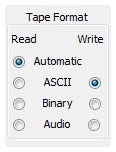
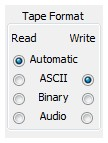
Improve tape file selection for Mac

diff --git a/docs/quickstart.html b/docs/quickstart.html
@@ -50,9 +50,9 @@ launch the application.</p>
 windows something like this:</p>
 <table frame="void" rules="none">
 <tr>
-<td align="left" valign="middle" width="100">Top left is video display</td>
+<td align="left" valign="middle" width="110">Top left is video display</td>
 <td rowspan="3"><img src="image/qs1.jpg" alt="Main Frame"/></td>
-<td align="right" valign="middle" width="100">Top right is the machine control
+<td align="right" valign="middle" width="110">Top right is the machine control
 and configuration panel</td>
 </tr>
 <tr><td>&nbsp;</td></tr>

diff --git a/src/uk101/view/component/TapeFormat.java b/src/uk101/view/component/TapeFormat.java
@@ -14,7 +14,6 @@ import javax.swing.ButtonGroup;
 import javax.swing.JLabel;
 import javax.swing.JPanel;
 import javax.swing.JRadioButton;
-import javax.swing.border.TitledBorder;
 
 import uk101.io.Tape;
 
@@ -34,8 +33,11 @@ public class TapeFormat extends JPanel {
     private ButtonGroup inputGroup, outputGroup;
 
     public TapeFormat() {
-        setLayout(new BoxLayout(this, BoxLayout.Y_AXIS));
-
+        JPanel buttons = new JPanel();
+        buttons.setLayout(new BoxLayout(buttons, BoxLayout.Y_AXIS));
+        buttons.setBorder(BorderFactory.createTitledBorder("Tape Format"));
+        add(buttons);
+        
         iAuto = new JRadioButton((String)null, true);
         JRadioButton ia = new JRadioButton();
         JRadioButton ib = new JRadioButton();
@@ -55,39 +57,31 @@ public class TapeFormat extends JPanel {
         ow.setActionCommand(Integer.toString(Tape.STREAM_AUDIO));
         outputGroup = new ButtonGroup();
         outputGroup.add(oAscii);  outputGroup.add(ob);  outputGroup.add(ow);
-
-        JPanel buttons = new JPanel();
-        buttons.setLayout(new BoxLayout(buttons, BoxLayout.Y_AXIS));
-        TitledBorder hb = BorderFactory.createTitledBorder("Tape Format");
-        hb.setTitleJustification(TitledBorder.CENTER);
-        hb.setTitlePosition(TitledBorder.ABOVE_TOP);
-        buttons.setBorder(hb);
         
         JPanel heads = new JPanel();
         heads.setLayout(new BoxLayout(heads, BoxLayout.X_AXIS));
-        heads.setBorder(BorderFactory.createEmptyBorder(4, 1, 5, 1));
+        heads.setBorder(BorderFactory.createEmptyBorder(2, 1, 5, 1));
         heads.add(new JLabel("Read"));
         heads.add(Box.createHorizontalGlue());
         heads.add(new JLabel("Write"));
+        
         buttons.add(heads);
         buttons.add(buttonPair(MODE_AUTO, iAuto, null));
         buttons.add(buttonPair(MODE_ASCII, ia, oAscii));
         buttons.add(buttonPair(MODE_BINARY, ib, ob));
         buttons.add(buttonPair(MODE_AUDIO, iw, ow));
-        
-        add(buttons);
     }
     
     private JPanel buttonPair(String bt, JRadioButton bl, JRadioButton br) {
         JPanel bp = new JPanel();
         bp.setLayout(new BoxLayout(bp, BoxLayout.X_AXIS));
-        bl.setMargin(new Insets(2, 0, 2, 5));
+        bl.setMargin(new Insets(2, 0, 0, 2));
         bp.add(bl);
         bp.add(Box.createHorizontalGlue()); 
         bp.add(new JLabel(bt));
         bp.add(Box.createHorizontalGlue());
         if (br != null) {
-            br.setMargin(new Insets(2, 5, 2, 0));
+            br.setMargin(new Insets(2, 2, 0, 0));
             bp.add(br);
         } else {
             bp.add(Box.createRigidArea(bl.getPreferredSize()));

diff --git a/src/uk101/view/component/ViewFrame.java b/src/uk101/view/component/ViewFrame.java
@@ -15,7 +15,7 @@ import javax.swing.JInternalFrame;
 import uk101.view.ComputerView;
 
 /**
- * Base class for the internal window elements/
+ * Base class for the internal window elements
  */
 public class ViewFrame extends JInternalFrame {
     private static final long serialVersionUID = 1L;
